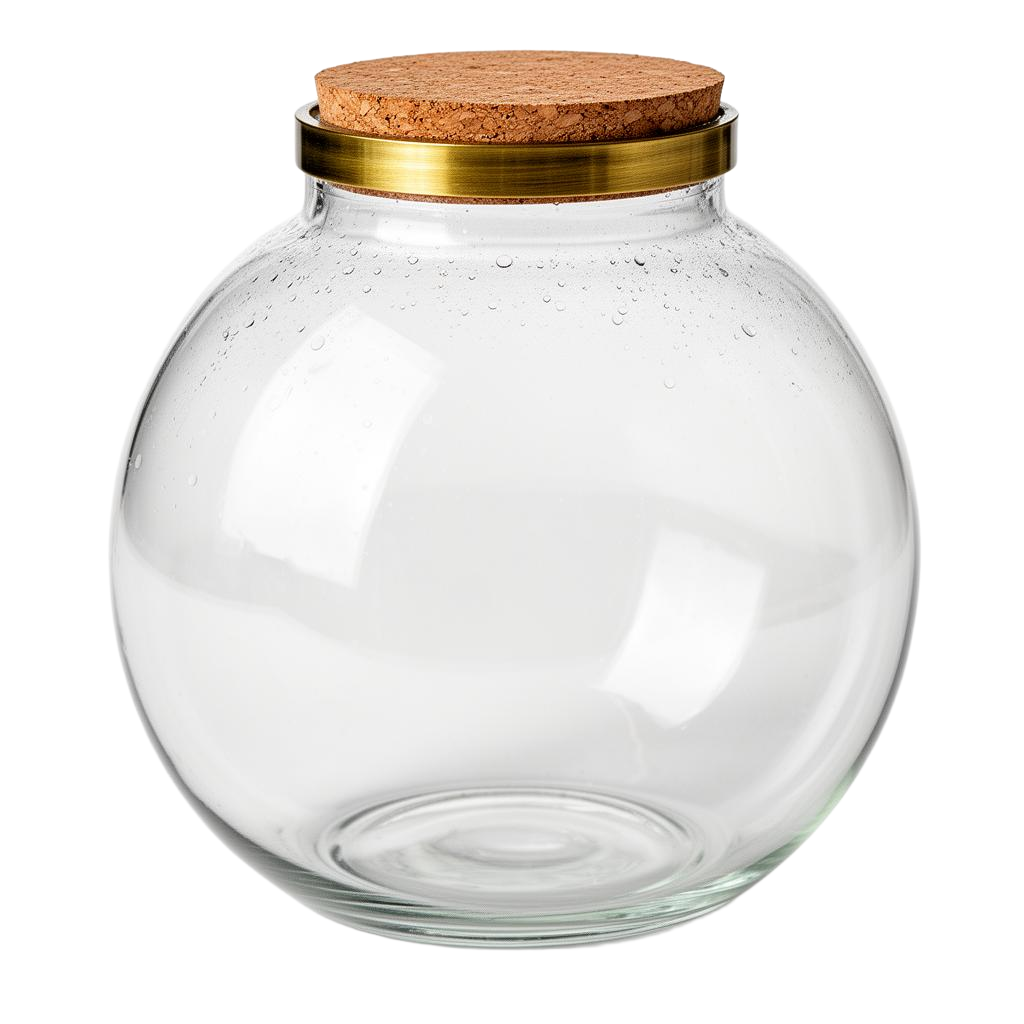
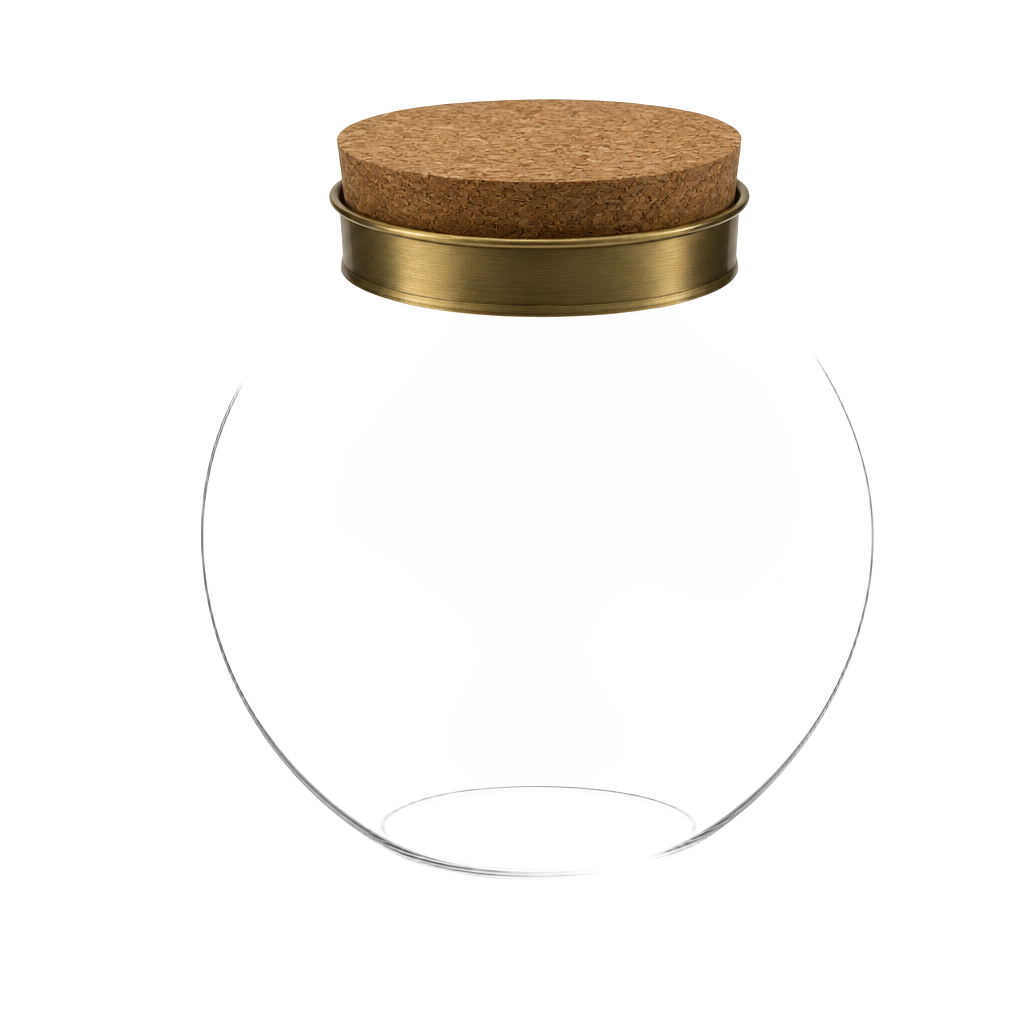
Changes

diff --git a/.lovable/plan.md b/.lovable/plan.md
@@ -1,119 +1,42 @@
-## Goal
+# Show the composition inside the jar
 
-Replace the pixel-art jar with a composited **hyperrealistic terrarium scene** (in the spirit of the two reference photos — glass jar, real moss, real flora) and rebuild the chrome around it as a calm, museum-grade botanical interface. Simulation logic stays untouched — only visuals and layout change.
+## What's wrong
 
-## 1. Hyperrealistic asset pack (generated via `imagegen`)
+Two issues stack to make the jar look empty:
 
-All saved under `src/assets/terrarium/` and imported as ES modules.
+1. **The jar PNG isn't actually transparent.** `src/assets/terrarium/jar.png` was generated against a solid background, so the glass interior renders as a milky white fill. Even though substrate and plants are drawn underneath, the "glass" hides them.
+2. **No live preview during setup.** Substrate/plants/fauna only render from `state`, which doesn't reflect the recipe until you press *Seal the jar*. So while composing, the jar shows nothing — even if it were transparent.
 
-**Scene base**
-- `jar-empty.png` — transparent PNG of an empty round glass jar with soft studio lighting, slight condensation, cork lid. The single hero canvas backdrop.
-- `backdrop.jpg` — softly blurred greenhouse / botanical-shop bokeh background (matches reference 1).
+## Fix
 
-**Substrates** (top-down slabs, transparent PNG, ~1024×280)
-- coir, forest loam, sandy mix, sphagnum — each photoreal, layered drainage pebbles included.
+### 1. Regenerate the jar as a real cut-out PNG
+Re-generate `src/assets/terrarium/jar.png` with `transparent_background: true` and a prompt that explicitly asks for a rim/cork/edge highlights only, with the bowl interior fully transparent. Add a separate `glass-highlight.png` (transparent) for the specular streak at the top so we keep the "glass" feel without occluding the contents.
 
-**Flora** (transparent PNG, 3 growth stages each: sprout / healthy / lush + 1 wilted)
-- fern, cushion moss, pilea, lichen, tiny orchid.
+### 2. Tune interior geometry to the new jar
+Re-measure the bowl bounds from the regenerated image and update the `interior` rect plus `subInset` / `substrateH` in `TerrariumScene.tsx` so the substrate slab sits on the curved bottom and plants/fauna stay inside the visible glass.
 
-**Fauna** (transparent PNG, single pose each — small)
-- springtail, isopod, snail, ant.
+### 3. Render a live preview from the recipe (setup phase)
+Drive `TerrariumScene` from a `previewState` during setup, built from the current `recipe`:
+- substrate slab uses `recipe.substrate`
+- one decorative sprite per selected plant, evenly spaced along the soil line, at stage 2
+- fauna sprites placed for each species at `recipe.fauna[id]` count
+- condensation opacity from `recipe.humidity`
 
-**Effects**
-- `mold.png` — wispy white mycelium patches (transparent).
-- `condensation.png` — water-droplet overlay on glass (transparent).
-- `glass-highlight.png` — soft jar reflection overlay.
+When `phase === "running"` or `"ended"`, keep using the real `state`. Easiest shape: small `recipeToDisplayState(recipe)` helper in `TerrariumScene.tsx` (or a sibling util) and pass either `state` or the preview into the scene.
 
-Total: ~25 generated images, mostly `fast` tier; jar and backdrop on `standard` for fidelity.
+### 4. Layer order
+- backdrop → substrate → mold → plants → fauna → **jar (transparent rim/cork)** → glass-highlight → condensation → day badge.
 
-## 2. New realistic renderer
+The transparent jar means contents are visible; the highlight overlay adds the glass shine without blocking.
 
-Replace pure-canvas drawing with a layered DOM/CSS composite (keeps things crisp and lets us animate with CSS/Framer-style transforms):
+## Files
 
-```
-TerrariumScene
-├── backdrop (blurred bokeh)
-├── jar glass back (image)
-├── substrate slab (selected one)
-├── plants layer  ← each PlantInstance → <img> at x%, opacity by health, stage swaps sprite
-├── fauna layer   ← each FaunaInstance → <img> with CSS transform translate(x,y) + gentle bob
-├── mold overlay  ← opacity = moldCover/100
-├── condensation overlay ← opacity = (humidity-60)/40
-├── glass highlight + jar rim (image)
-└── day badge (overlayed)
-```
+- `src/assets/terrarium/jar.png` — regenerate, transparent interior
+- `src/assets/terrarium/glass-highlight.png` — new, transparent specular overlay
+- `src/components/terrarium/assets.ts` — export new highlight asset
+- `src/components/terrarium/TerrariumScene.tsx` — geometry retune, highlight layer, accept preview state
+- `src/routes/index.tsx` — build `previewState` from `recipe` in setup phase and pass to `<TerrariumScene>`
 
-Fauna positions update at the render frame from sim state (already in 0..1 coords). Plant sprite chosen from stage + dead flags. Subtle parallax sway via `transform` and CSS `@keyframes`.
+## Out of scope
 
-`TerrariumCanvas.tsx` is deleted and replaced by `TerrariumScene.tsx`.
-
-## 3. UI/UX overhaul — "Botanical Journal" aesthetic
-
-Direction: warm parchment + deep forest + brass accents, serif display (Cormorant / Fraunces) + clean sans (Inter), generous whitespace, soft shadows, no pixel fonts.
-
-**Tokens (`src/styles.css`)**
-- Background: warm ivory `oklch(0.97 0.012 85)` with subtle paper grain (CSS gradient noise).
-- Primary: deep forest `oklch(0.36 0.06 150)`.
-- Accent: aged brass `oklch(0.68 0.11 75)`.
-- Card: translucent white with backdrop blur.
-- Border: hairline `oklch(0.85 0.02 80)`.
-- Fonts: drop `Press Start 2P` / `VT323`. Add `Fraunces` (display) + `Inter` (body).
-
-**Layout**
-```
-┌────────────────────────────────────────────────────────────┐
-│  Header — wordmark, day & best-day chips                    │
-├──────────────┬─────────────────────────────┬───────────────┤
-│ Ingredients  │     Hyperreal terrarium     │  Vitals       │
-│ (tabs as     │     (centered, framed)      │  (elegant     │
-│  cards w/    │     Floating control bar    │   bars + tiny │
-│  thumbnails) │     below the jar           │   sparklines) │
-└──────────────┴─────────────────────────────┴───────────────┘
-```
-
-**Ingredients sidebar**
-- Each option becomes a **photo card**: real thumbnail of the substrate/plant/fauna, name in serif, one-line italic blurb, tolerance chips (moisture / light) as small pill icons.
-- Selection state = brass border + soft inner glow, not flat color fill.
-- Atmosphere tab: humidity & light sliders styled with a thin brass track and circular brass knob; live numeric readout in serif.
-- "Seal the jar" → full-width pill button, forest green, with a subtle wax-seal icon.
-
-**HUD**
-- Vitals as labeled hairline bars with serif numerals; mold bar turns rusty red as danger.
-- Day/biodiversity displayed as large serif numerals on a card with a thin underline.
-- Hour readout becomes a tiny rotating sun/moon glyph + time.
-
-**Controls**
-- Floating capsule bar under the jar: pause / 1× / 8× / 32× / reset, brass icons on cream.
-- On hover, soft lift + shadow.
-
-**Collapse / Thriving modal**
-- Botanical certificate look: serif title, hairline divider, stats in a 2×2 grid, two ghost buttons.
-
-**Microcopy & polish**
-- Replace pixel-uppercase labels with sentence-case serif headings.
-- Forecast badge → small leaf icon + "Stable / Watchful / Doomed".
-- Subtle fade/scale transitions when phase changes (Tailwind `transition` + `data-state`).
-
-## 4. Files to change
-
-- `src/styles.css` — new palette, fonts, paper texture, remove pixel font utilities.
-- `src/components/terrarium/TerrariumScene.tsx` — **new** (replaces TerrariumCanvas).
-- `src/components/terrarium/IngredientCard.tsx` — **new** reusable photo card.
-- `src/routes/index.tsx` — rebuild sidebar, HUD, controls, modal with new aesthetic; swap canvas import.
-- `src/assets/terrarium/*` — generated image pack.
-- Delete `src/components/terrarium/TerrariumCanvas.tsx`.
-
-Simulation files (`lib/terrarium/*`) are untouched.
-
-## 5. Build order
-
-1. Generate the full image pack (parallelized).
-2. Rewrite `styles.css` with the botanical tokens + fonts.
-3. Build `TerrariumScene.tsx` layered composite.
-4. Build `IngredientCard.tsx`.
-5. Rewrite `index.tsx` layout, sidebar, HUD, controls, modal.
-6. QA pass on preview at 1528-wide viewport: check jar centering, sprite scales, overlay opacities at extreme humidity/mold, modal layout.
-
-## Out of scope (for this pass)
-
-- New gameplay mechanics, new species, sound, persistence beyond existing best-day localStorage.
+Simulation logic, species definitions, palette, typography, and panel layout stay as-is.
